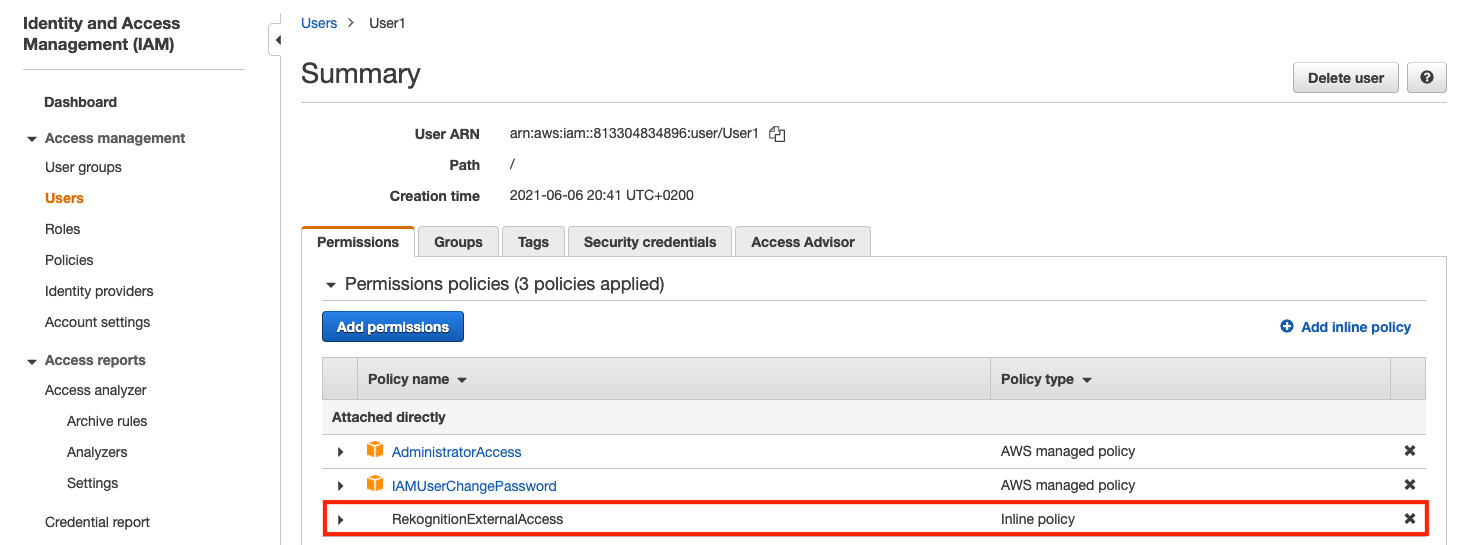
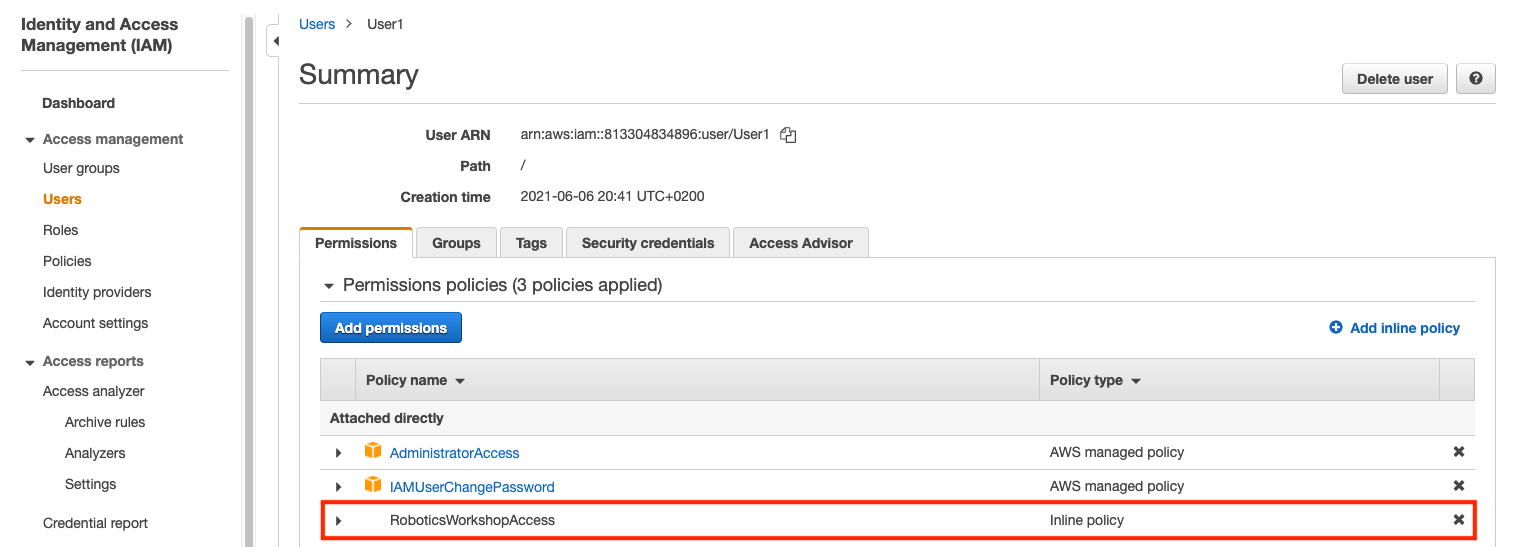
Hid attach policy page

diff --git a/content/Setup/launch_cloud9.md b/content/Setup/launch_cloud9.md
@@ -9,7 +9,7 @@ chapter = false
 
 ![RoboMaker Dashboard](/rm-dashboard.png?classes=border)
 
-2. Click on **Create development environment**, provide a name for the resource, and choose _Melodic_ for the ROS distribution. Select _c5.9xlarge_ for instance type, leaving all other options as default. Then click **Create**.
+2. Click on **Create development environment**, provide a name for the resource, and choose _Melodic_ for the ROS distribution. Select _c4.8xlarge_ for instance type, leaving all other options as default. Then click **Create**.
 
 ![Launch IDE](/c9-launch.png?classes=border)
 
@@ -27,7 +27,7 @@ chapter = false
 aws configure
 ```
 
-Follow the prompts and enter your _Access Key ID_ and _Secret Access Key_. When prompted for a default region name, type in **us-east-1**. For default output format, type in **json**.
+Follow the prompts and enter your _Access Key ID_ and _Secret Access Key_. When prompted for a default region name, type in `us-east-1`. For default output format, type in `json`.
 
 6. Set up a supplementary CLI profile that allows external access to AWS resources.
 

diff --git a/content/Setup/attach_access_policy.md b/content/Setup/attach_access_policy.md
@@ -3,6 +3,7 @@ title = "Attach access policy"
 date = 2021-05-03T13:44:16-05:00
 weight = 20
 chapter = false
+hidden = true
 +++
 
 1. Log in to your AWS account with the credentials provided to you in the previous step. Go to IAM Users, then click on your user name to open the resource summary page. Select **Add inline policy** on the right.
@@ -24,7 +25,7 @@ chapter = false
 
 ![Inline access policy](/iam-inline-policy.png?classes=border)
 
-3. Click on **Review policy**. For name, type in _ExternalResourcesAccess_. Then hit the **Create policy** button.
+3. Click on **Review policy**. For name, type in `RoboticsWorkshopAccess`. Then hit the **Create policy** button.
 
 ![Add policy review](/iam-policy-review.png?classes=border)
 

diff --git a/content/Setup/set_up_project.md b/content/Setup/set_up_project.md
@@ -27,7 +27,7 @@ cd ~/environment/aws_ws
 rosdep install --from-paths src --ignore-src --rosdistro melodic -r -y
 ```
 
-4. Set up Interbotix robot arm modules. Type **no** when prompted to set up the perception pipeline in the terminal.
+4. Set up Interbotix robot arm modules. Type `no` when prompted to set up the perception pipeline in the terminal.
 
 ```
 cd ~/environment

diff --git a/content/Setup/_index.md b/content/Setup/_index.md
@@ -9,7 +9,6 @@ pre = "<b>2. </b>"
 # Setup
 
 - Create IAM users
-- Attach access policy
 - Launch Cloud9 IDE
 - Set up ROS project
 - Run blank application
